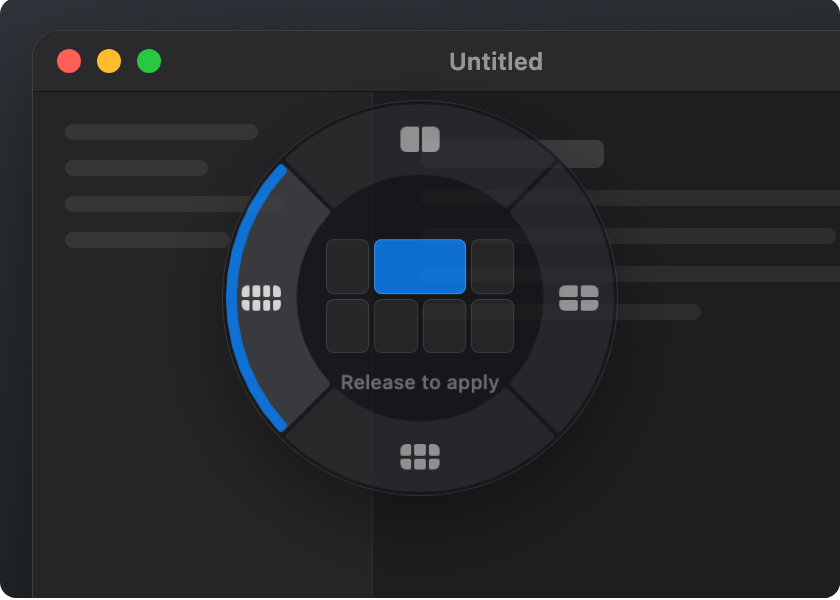
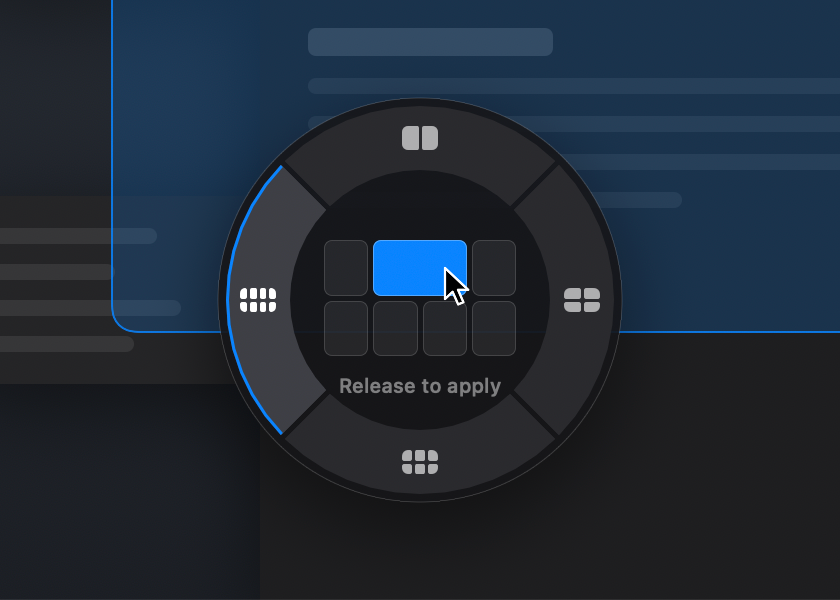
docs: README screenshots and GIF rendered from the app's own views (--scenes)

diff --git a/Sources/Orbitile/Scenes.swift b/Sources/Orbitile/Scenes.swift
@@ -1,0 +1,233 @@
+import AppKit
+import OrbitileCore
+import SwiftUI
+
+/// Offscreen "screen recording" of the real fan over a mock desktop.
+/// `Orbitile --scenes <dir>` writes numbered GIF frames (`frames/`) and README stills.
+/// It needs no screen access and no permissions: the fan is the same SwiftUI view the app shows.
+@MainActor
+enum Scenes {
+    static let size = CGSize(width: 960, height: 600)
+    static let menuBar: CGFloat = 24
+    static let startWindow = CGRect(x: 170, y: 100, width: 520, height: 340)
+    static let fps = 25.0
+
+    struct Frame {
+        var cursor: CGPoint
+        var openProgress: Double      // 0 = closed, 1 = fully open
+        var dragging: Bool
+        var window: CGRect
+        var showFan: Bool
+    }
+
+    // MARK: Timeline
+
+    static func timeline() -> [Frame] {
+        let start = CGPoint(x: 400, y: 290)
+        let center = FanGeometry.clampCenter(start, in: CGRect(origin: .zero, size: size))
+        let family8 = LayoutFamily.all[3]
+        func cellPoint(_ i: Int) -> CGPoint {
+            let r = FanGeometry.cellRect(family8, index: i)
+            return CGPoint(x: center.x + r.midX, y: center.y + r.midY)
+        }
+        func ring(_ dx: CGFloat, _ dy: CGFloat) -> CGPoint { CGPoint(x: center.x + dx, y: center.y + dy) }
+
+        var frames: [Frame] = []
+        var cursor = start
+        var window = startWindow
+        func add(_ n: Int, open: Double = 1, drag: Bool = false, fan: Bool = true, window w: CGRect? = nil) {
+            for _ in 0..<n { frames.append(Frame(cursor: cursor, openProgress: open, dragging: drag, window: w ?? window, showFan: fan)) }
+        }
+        func move(to p: CGPoint, frames n: Int, drag: Bool = false) {
+            let from = cursor
+            for i in 1...n {
+                let k = CGFloat(Easing.cubicBezier(0.3, 0, 0.2, 1, Double(i) / Double(n)))
+                cursor = CGPoint(x: from.x + (p.x - from.x) * k, y: from.y + (p.y - from.y) * k)
+                add(1, drag: drag)
+            }
+        }
+
+        add(10, open: 0, fan: false)                              // desktop, cursor on the window
+        for i in 1...3 { add(1, open: Double(i) / 3) }            // 120 ms pop
+        add(12)                                                   // family 8 already active
+        move(to: ring(82, 0), frames: 10); add(8)                 // family 4
+        move(to: ring(0, 82), frames: 10); add(8)                 // family 6
+        move(to: ring(-82, 0), frames: 10); add(6)                // family 8
+        move(to: cellPoint(1), frames: 12); add(8)                // hover a cell
+        add(4, drag: true)                                        // press
+        move(to: cellPoint(2), frames: 6, drag: true); add(16, drag: true)  // merge, preview
+
+        // Release: the fan closes and the window glides to the target (220 ms, same easing as the app).
+        let target = mockTarget(family8, 1, 2)
+        let from = window
+        let steps = 6
+        for i in 1...steps {
+            let k = CGFloat(Easing.cubicBezier(0.2, 0.8, 0.2, 1, Double(i) / Double(steps)))
+            let w = CGRect(
+                x: from.minX + (target.minX - from.minX) * k, y: from.minY + (target.minY - from.minY) * k,
+                width: from.width + (target.width - from.width) * k, height: from.height + (target.height - from.height) * k)
+            add(1, open: 0, fan: false, window: w)
+        }
+        window = target
+        add(30, open: 0, fan: false)
+        return frames
+    }
+
+    /// Same maths as `FanGeometry.targetRect`, in top-left screen coordinates of the mock.
+    static func mockTarget(_ f: LayoutFamily, _ a: Int, _ b: Int) -> CGRect {
+        let (ac, ar) = f.position(of: a), (bc, br) = f.position(of: b)
+        let area = CGRect(x: 0, y: menuBar, width: size.width, height: size.height - menuBar)
+        let w = area.width / CGFloat(f.cols), h = area.height / CGFloat(f.rows)
+        return CGRect(
+            x: CGFloat(min(ac, bc)) * w, y: area.minY + CGFloat(min(ar, br)) * h,
+            width: CGFloat(abs(ac - bc) + 1) * w, height: CGFloat(abs(ar - br) + 1) * h
+        ).insetBy(dx: 6, dy: 6)
+    }
+
+    // MARK: Rendering
+
+    static func view(for frame: Frame) -> some View {
+        let model = FanModel()
+        let bounds = CGRect(origin: .zero, size: size)
+        // Fan center is fixed when it opens, so derive it from the timeline's first cursor.
+        let center = FanGeometry.clampCenter(CGPoint(x: 400, y: 290), in: bounds)
+        model.center = center
+        var state = FanState(family: 3)
+        let rel = CGPoint(x: frame.cursor.x - center.x, y: frame.cursor.y - center.y)
+        if frame.dragging {
+            // Pressed on cell 1 (see `timeline`); the drag then follows the cursor.
+            state.update(.cell(1))
+            state.beginDrag()
+        }
+        state.update(FanGeometry.hit(rel, expanded: state.family))
+        model.state = state
+        if let span = state.span {
+            let r = mockTarget(span.family, span.first, span.last)
+            model.preview = r
+        }
+        return ZStack(alignment: .topLeading) {
+            Desktop(window: frame.window)
+            if frame.showFan {
+                FanView(model: model, startOpened: true)
+                    .scaleEffect(0.86 + 0.14 * frame.openProgress, anchor: UnitPoint(x: center.x / size.width, y: center.y / size.height))
+                    .opacity(frame.openProgress)
+            }
+            Pointer().offset(x: frame.cursor.x - 1, y: frame.cursor.y - 1)
+        }
+        .frame(width: size.width, height: size.height)
+        .clipped()
+    }
+
+    static func write(_ frame: Frame, to url: URL, scale: CGFloat) {
+        let renderer = ImageRenderer(content: view(for: frame))
+        renderer.scale = scale
+        guard let t = renderer.nsImage?.tiffRepresentation,
+              let png = NSBitmapImageRep(data: t)?.representation(using: .png, properties: [:]) else { return }
+        try? png.write(to: url)
+    }
+
+    static func run(into dir: String) {
+        let fm = FileManager.default
+        let frames = "\(dir)/frames"
+        try? fm.createDirectory(atPath: frames, withIntermediateDirectories: true)
+        let all = timeline()
+        for (i, f) in all.enumerated() {
+            write(f, to: URL(fileURLWithPath: String(format: "\(frames)/f%03d.png", i)), scale: 1)
+        }
+        // Stills at 2x: pick moments from the timeline.
+        func still(_ name: String, where match: (Frame) -> Bool, last: Bool = false) {
+            let picks = all.filter(match)
+            guard let f = last ? picks.last : picks.first else { return }
+            write(f, to: URL(fileURLWithPath: "\(dir)/\(name).png"), scale: 2)
+        }
+        still("still-open", where: { $0.showFan && !$0.dragging && $0.openProgress == 1 && $0.cursor.x < 330 })
+        still("still-click", where: { $0.showFan && $0.dragging })
+        still("still-merge", where: { $0.showFan && $0.dragging }, last: true)
+        print("frames: \(all.count)")
+    }
+}
+
+private struct Desktop: View {
+    let window: CGRect
+
+    var body: some View {
+        ZStack(alignment: .topLeading) {
+            LinearGradient(colors: [Color(red: 0.16, green: 0.18, blue: 0.21), Color(red: 0.09, green: 0.1, blue: 0.12)],
+                           startPoint: .top, endPoint: .bottom)
+            // Menu bar
+            HStack(spacing: 16) {
+                RoundedRectangle(cornerRadius: 3).fill(.white.opacity(0.8)).frame(width: 11, height: 11)
+                Text("Editor").fontWeight(.bold)
+                Text("File"); Text("Edit"); Text("View"); Text("Window")
+                Spacer()
+                Image(nsImage: MenuBarIcon.make()).renderingMode(.template).resizable().frame(width: 15, height: 15)
+            }
+            .font(.system(size: 12))
+            .foregroundStyle(.white.opacity(0.88))
+            .padding(.horizontal, 12)
+            .frame(width: Scenes.size.width, height: Scenes.menuBar)
+            .background(Color(red: 0.06, green: 0.06, blue: 0.07).opacity(0.55))
+
+            MockWindow()
+                .frame(width: window.width, height: window.height)
+                .offset(x: window.minX, y: window.minY)
+        }
+    }
+}
+
+private struct MockWindow: View {
+    var body: some View {
+        VStack(spacing: 0) {
+            HStack(spacing: 8) {
+                Circle().fill(Color(red: 1, green: 0.37, blue: 0.34)).frame(width: 12, height: 12)
+                Circle().fill(Color(red: 1, green: 0.74, blue: 0.18)).frame(width: 12, height: 12)
+                Circle().fill(Color(red: 0.16, green: 0.78, blue: 0.25)).frame(width: 12, height: 12)
+                Spacer()
+                Text("Untitled").font(.system(size: 12, weight: .semibold)).foregroundStyle(.white.opacity(0.5))
+                Spacer().frame(width: 56)
+            }
+            .padding(.horizontal, 12).frame(height: 30)
+            .background(Color(red: 0.165, green: 0.165, blue: 0.176))
+            HStack(spacing: 0) {
+                VStack(alignment: .leading, spacing: 10) {
+                    ForEach([0.7, 0.52, 0.8, 0.6], id: \.self) { w in bar(w, 8, 0.08) }
+                }
+                .padding(16).frame(width: 150, alignment: .topLeading)
+                .background(Color(red: 0.145, green: 0.145, blue: 0.153))
+                VStack(alignment: .leading, spacing: 11) {
+                    bar(0.38, 14, 0.14)
+                    ForEach([0.92, 0.86, 0.9, 0.58], id: \.self) { w in bar(w, 8, 0.07) }
+                    Spacer()
+                }
+                .padding(24).frame(maxWidth: .infinity, alignment: .topLeading)
+                .background(Color(red: 0.118, green: 0.118, blue: 0.125))
+            }
+        }
+        .clipShape(RoundedRectangle(cornerRadius: 12))
+        .overlay(RoundedRectangle(cornerRadius: 12).stroke(.white.opacity(0.14), lineWidth: 0.5))
+        .shadow(color: .black.opacity(0.45), radius: 22, y: 12)
+    }
+
+    private func bar(_ fraction: Double, _ height: CGFloat, _ opacity: Double) -> some View {
+        GeometryReader { g in
+            RoundedRectangle(cornerRadius: 4).fill(.white.opacity(opacity)).frame(width: g.size.width * fraction, height: height)
+        }.frame(height: height)
+    }
+}
+
+private struct Pointer: View {
+    var body: some View {
+        Path { p in
+            p.move(to: CGPoint(x: 1, y: 1)); p.addLine(to: CGPoint(x: 1, y: 16.5)); p.addLine(to: CGPoint(x: 4.8, y: 12.9))
+            p.addLine(to: CGPoint(x: 7.6, y: 19.2)); p.addLine(to: CGPoint(x: 10.2, y: 18.1)); p.addLine(to: CGPoint(x: 7.5, y: 11.9))
+            p.addLine(to: CGPoint(x: 12.6, y: 11.9)); p.closeSubpath()
+        }
+        .fill(.black)
+        .overlay(Path { p in
+            p.move(to: CGPoint(x: 1, y: 1)); p.addLine(to: CGPoint(x: 1, y: 16.5)); p.addLine(to: CGPoint(x: 4.8, y: 12.9))
+            p.addLine(to: CGPoint(x: 7.6, y: 19.2)); p.addLine(to: CGPoint(x: 10.2, y: 18.1)); p.addLine(to: CGPoint(x: 7.5, y: 11.9))
+            p.addLine(to: CGPoint(x: 12.6, y: 11.9)); p.closeSubpath()
+        }.stroke(.white, style: StrokeStyle(lineWidth: 1.2, lineJoin: .round)))
+        .frame(width: 14, height: 21, alignment: .topLeading)
+    }
+}

diff --git a/Sources/Orbitile/main.swift b/Sources/Orbitile/main.swift
@@ -160,6 +160,11 @@ func renderSnapshots(to dir: String) {
     bar("menubar-dark", dark: true)
 }
 
+if let i = CommandLine.arguments.firstIndex(of: "--scenes"), i + 1 < CommandLine.arguments.count {
+    MainActor.assumeIsolated { Scenes.run(into: CommandLine.arguments[i + 1]) }
+    exit(0)
+}
+
 if let i = CommandLine.arguments.firstIndex(of: "--snapshot"), i + 1 < CommandLine.arguments.count {
     MainActor.assumeIsolated { renderSnapshots(to: CommandLine.arguments[i + 1]) }
     exit(0)

diff --git a/README.md b/README.md
@@ -10,10 +10,10 @@
 </p>
 
 <p align="center">
-  <img src="docs/images/demo.png" alt="Orbitile radial menu over a window" width="720">
+  <img src="docs/images/demo.gif" alt="Orbitile in action: open the fan, pick a layout, drag across cells, the window snaps into place" width="720">
 </p>
 
-> The images in this README are renders of the design mockup in [`design/`](design). Real screenshots will replace them (see [spec.md](spec.md)).
+> The images are rendered by the app's own SwiftUI views over a mock desktop, so they match what the app draws. Regenerate them with `swift run Orbitile --scenes <folder>`. The backdrop blur and the real window movement are not part of those renders.
 
 ## What it does
 
@@ -22,7 +22,7 @@ Hover a window, click the middle button, and a ring of four layouts opens around
 | Open | Click a cell | Drag to merge | Preview on screen |
 | :---: | :---: | :---: | :---: |
 | <img src="docs/images/open.png" width="200"> | <img src="docs/images/click.png" width="200"> | <img src="docs/images/drag.png" width="200"> | <img src="docs/images/preview.png" width="200"> |
-| Hover a family on the ring | Applies right away | Release to apply the merged area | The real target, before you commit |
+| Hover a family on the ring | Press a cell, release to apply | Drag across cells and release | The real target, before you commit |
 
 ### Layouts
 

diff --git a/spec.md b/spec.md
@@ -85,12 +85,10 @@ Hoje, sem Accessibility o app só imprime no stderr e não faz nada até ser rel
 
 ## 9. Imagens do README
 
-As imagens atuais em `docs/images/` são recortes do mockup em [design/](design), não do app.
+As imagens em `docs/images/` agora são renderizadas pelas próprias views SwiftUI do app (`swift run Orbitile --scenes <pasta>`, código em [Scenes.swift](Sources/Orbitile/Scenes.swift)) sobre um desktop de mentira. Não são gravações de tela do macOS.
 
-- [ ] Capturar screenshots reais do overlay (aberto, célula selecionada, merge, preview no destino) em tema escuro e claro.
-- [ ] Gravar um GIF curto do fluxo completo e colocar no topo do README.
-- [ ] Substituir `open.png`, `click.png`, `drag.png`, `preview.png` e `demo.png`.
-- [ ] Remover o aviso "renders of the design mockup" do README.
+- [x] Stills do overlay (aberto, clique, merge, preview no destino) e GIF do fluxo completo.
+- [ ] Opcional: trocar por uma gravação de tela real (com o blur e a janela de verdade se movendo), gravada com `Cmd+Shift+5` e convertida com `ffmpeg`.
 
 ## 10. Opcional / depois
 
